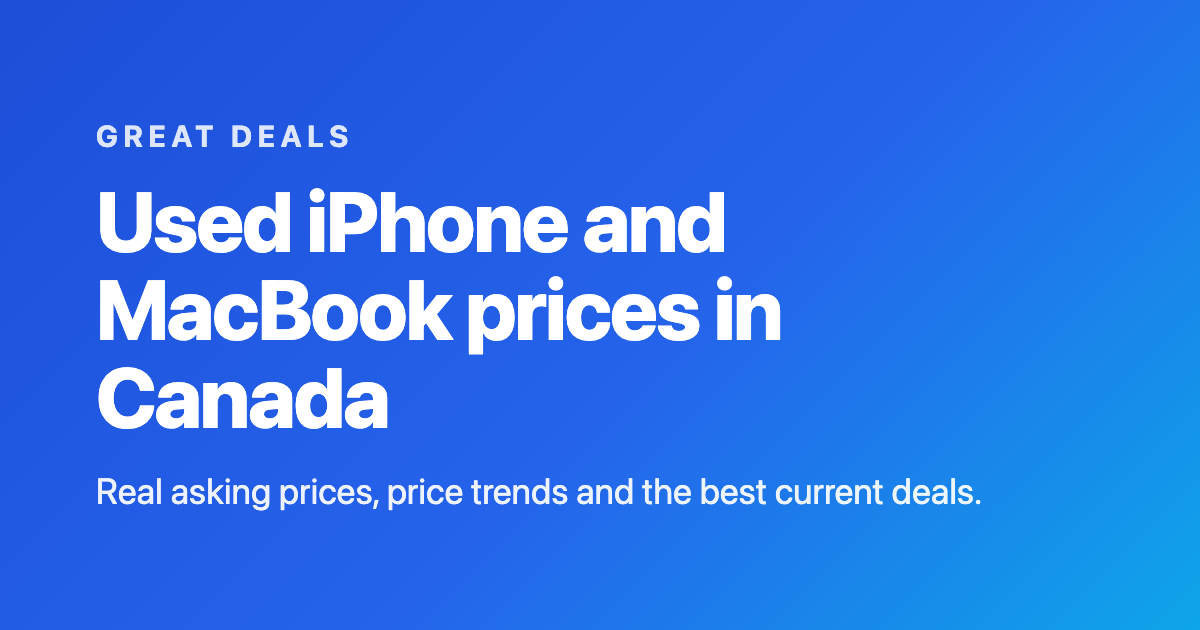
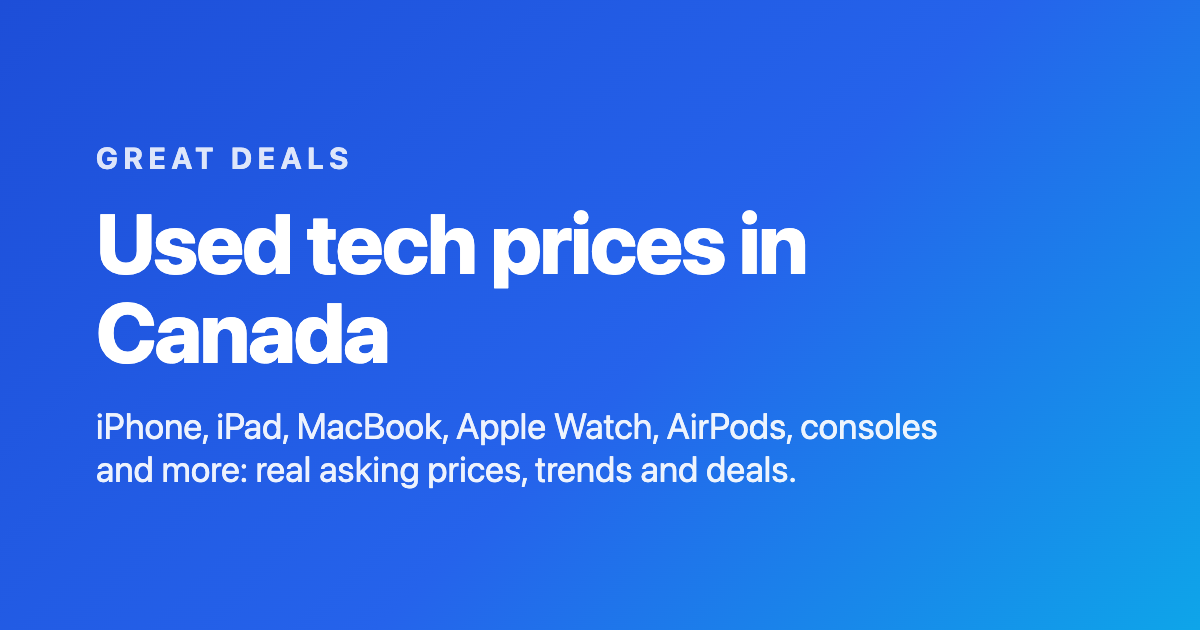
developing frontend module - 16

Changed region(s): [[0.0617, 0.3016, 0.8325, 0.8143], [0.0617, 0.181, 0.3083, 0.2714]]

diff --git a/web/src/lib/catalog.ts b/web/src/lib/catalog.ts
@@ -2,8 +2,19 @@
 // A module runs once and its variables stay alive for the whole build, so the first call fetches and the rest reuse it.
 import { getCategories, getCategoryProducts, getProduct, getSeries, getTopDeals, type CategoryProductCard } from "./api";
 
+// The API's category keys use underscores (apple_watch). URLs use hyphens (apple-watch), which search engines read as word
+// separators, so `category_key` here is the URL form. Only the calls to the API convert back (toApiKey).
+export const toUrlKey = (key: string) => key.replaceAll("_", "-");
+export const toApiKey = (urlKey: string) => urlKey.replaceAll("-", "_");
+
+// Names that read better in titles such as "Used Smart Ring Prices in Canada" than the database's own name.
+const CATEGORY_NAME_OVERRIDES: Record<string, string> = { smart_rings: "Smart Ring" };
+
+// Products with the most listings first (a fair way to choose which models to show when space is short).
+export const byPopularity = (a: CategoryProductCard, b: CategoryProductCard) => (b.listings_30d ?? 0) - (a.listings_30d ?? 0);
+
 export type CatalogCategory = {
-  category_key: string;
+  category_key: string; // URL form, see above
   category_name: string;
   products: CategoryProductCard[];
 };
@@ -19,7 +30,11 @@ async function load(): Promise<Catalog> {  const { data: categories, data_as_of 
   const loaded = await Promise.all(
     categories.map(async (category) => {
       const { products } = (await getCategoryProducts(category.category_key)).data;
-      return { category_key: category.category_key, category_name: category.category_name, products };
+      return {
+        category_key: toUrlKey(category.category_key),
+        category_name: CATEGORY_NAME_OVERRIDES[category.category_key] ?? category.category_name,
+        products,
+      };
     }),
   );
   return { categories: loaded, data_as_of };
@@ -39,7 +54,7 @@ const dealsCache = new Map<string, ReturnType<typeof getTopDeals>>();
 export function getCategoryDeals(categoryKey: string) {
   let deals = dealsCache.get(categoryKey);
   if (!deals) {
-    deals = getTopDeals(categoryKey);
+    deals = getTopDeals(toApiKey(categoryKey));
     dealsCache.set(categoryKey, deals);
   }
   return deals;

diff --git a/web/src/lib/text.ts b/web/src/lib/text.ts
@@ -2,6 +2,14 @@
 // needs is missing, so the page simply leaves that sentence out instead of printing "null".
 import type { Deal, ProductSummary, SeriesPoint } from "./api";
 import { formatShortDate, money } from "./format";
+import { SITE_NAME } from "./site";
+
+// The first title option that fits (the layout adds " | Site name"; Google shows about 60 characters, and check-site warns
+// above 70 in total). Long model names such as "PlayStation 5 Slim Digital Edition" fall back to a shorter wording.
+export function fitTitle(options: string[]): string {
+  const limit = 70 - ` | ${SITE_NAME}`.length;
+  return options.find((title) => title.length <= limit) ?? options[options.length - 1];
+}
 
 export const plural = (n: number, one: string, many: string) => `${n.toLocaleString("en-CA")} ${n === 1 ? one : many}`;
 

diff --git a/web/src/lib/site.ts b/web/src/lib/site.ts
@@ -26,6 +26,9 @@ export const HUBS = {
 } as const;
 export type HubKey = keyof typeof HUBS;
 
+// The owners of the brands whose products the site tracks, for the "not affiliated" statements.
+export const BRAND_OWNERS = "Facebook, Meta, Apple, Samsung, Sony, Microsoft, Nintendo or Oura";
+
 // Plain links in the top bar (no menu).
 export const NAV_LINKS = [{ label: "How it works", href: "/how-it-works/" }] as const;
 

diff --git a/api_front_end.md b/api_front_end.md
@@ -535,6 +535,7 @@ This validates networking, database access, caching, and deployment. Widening to
 | 2026-11-19 | F8 decisions: benefit headline with the site name small above it; categories as cards with their models fading in (one section, not a screen per category); one chart (the most-listed model's price trend); extras = trust numbers strip, FAQ and a "deal alerts coming soon" note (no email box) | Owner's answers. The owner chose to build F8 before deciding 13.1. |
 | 2026-11-20 | F9 and F10 decisions: Contact email is a placeholder until the owner has an address; Privacy describes today's reality (no analytics, cookies or ads) and will be updated when that changes; About presents an independent project without a name; the style guide exists only in `npm run dev`. Defaults chosen by the assistant: default share image made now, WebSite and Organization structured data only (no Product or Dataset markup), `astro check` and a link/SEO checker added | Owner's answers (all recommended). |
 | 2026-11-20 | F11 decisions: search is a magnifier icon in the header that opens a search panel (with the `/` shortcut); it finds models, categories and the two info pages only; the panel is Pagefind's ready-made one in the site's colours | Owner's answers (all recommended). |
+| 2026-11-20 | Catalog expansion decisions: the owner supplied the list of 69 product models and asked the assistant to assign categories (done by name; all fit existing categories); hyphenated category URLs and the "show only the most-listed models" limits were the assistant's choices to keep URLs search-friendly and pages short | No minimum-listings threshold for pages yet (see 13.5). |
 | 2026-10-26 | All API timestamps (`data_as_of`, later `listed_at`) are shown in Toronto time with the UTC offset, not UTC | Implemented once in `schemas.py` (`TorontoDatetime`); needs the `tzdata` package. Day bucketing in dbt is a separate, open decision (Section 11.5). |
 | 2026-10-23 | Listings endpoint stays parameterised (option A); the whole-list-per-product alternative (option B) and other caching ideas are parked for later | See 11.2 |
 | 2026-10-19 | ~~Add `median_price_30d` to the product summary~~ | Reversed 2026-10-20: no median in v1 |
@@ -636,6 +637,7 @@ Related to 11.1 and 5.1.1. Today a listing that disappears from Facebook keeps `
 | 2026-11-20 | Phase 5, step F9: trust pages | New `layouts/TextPage.astro` (breadcrumb, H1, intro, optional "Last updated", plain styling for headings, lists and definition lists) and pages `about`, `how-it-works` (where the data comes from, which listings count, the numbers explained, how deals are ranked, limits), `contact`, `privacy` (today's reality: no accounts, cookies, analytics or ads; AWS logs; will be updated if that changes), `terms`, `disclosure` and `404` (noindex, links to home, categories, top deals and every model). `CONTACT_EMAIL` placeholder in `site.ts`. | `npx tsc --noEmit` and `astro check` clean; build passes; screenshots of How it works and the 404 page looked right. Wording is a draft for the owner to review (13.5). |
 | 2026-11-20 | Phase 5, step F10: SEO plumbing | `@astrojs/sitemap` with a filter (sitemap leaves out all-listings, listings, styleguide and 404 pages; 28 of 36 pages are listed); `src/pages/robots.txt.ts` (allow all, sitemap address from `site`; noindex pages are not blocked here so Google can see their tag); `Base.astro` adds `og:locale`, `og:image` (+ size) and `twitter:card` with `public/og-default.png`; home page has WebSite and Organization JSON-LD (BreadcrumbList already on every page with a breadcrumb); `/styleguide/` is now a dynamic route that lists no pages in a production build (dev only); `@astrojs/check` added (`npm run check`; TypeScript pinned to 6.x because `@astrojs/check` does not accept 7); new `scripts/check-site.mjs` (`npm run check:site`, run after the build): broken internal links, sitemap entries that do not exist, noindex pages in the sitemap, indexable pages missing from it, and per page title, description, canonical and exactly one H1, with warnings for long titles and descriptions. | `astro check`: 0 errors, 0 warnings, 0 hints (60 files); `npm run build` passes (36 pages); `check:site` passes; deliberately broken link was caught. The checker found four hub descriptions that were too long (shortened). |
 | 2026-11-20 | Phase 5, step F11: search | `pagefind` added (dev dependency); `npm run build` is now `astro build && pagefind --site dist` and writes the index to `dist/pagefind/` (8 pages indexed: the 4 model overview pages, the 2 category pages, About and How it works). Only marked content is indexed (`data-pagefind-body` on the model summary text, the category intro and, through the new `searchable` option of `TextPage`, the two info pages; the H1 is the result title via `data-pagefind-meta="title"`), so Facebook listing titles and other pages never appear in results. `SiteHeader.astro`: a magnifier button (always visible, desktop and phone) and a native `<dialog>` search panel; opens from the button or the `/` key, closes with Escape, the X or a click outside; Pagefind's own script and stylesheet are loaded the first time it opens; the panel is themed with Pagefind CSS variables in `global.css`; in `npm run dev` (no index) it shows a note to build first. | `astro check` 0 errors; build passes; `check:site` passes; headless Chrome test: `/` opens the panel, "macbook" finds the two MacBook model pages and the category page, "how" finds How it works and About, Escape closes it. Found a stray word (`developin`) at the end of `web/tsconfig.json` in the working copy, which broke the build; removed it (the committed version was fine). |
+| 2026-11-20 | Catalog expansion to 69 products in 8 categories | `transform/seeds/product_catalog.csv` rewritten (iphone 17, macbook 9, ipad 10, apple_watch 12, airpods 7, gaming_console 11, samsung_galaxy 2, smart_rings 1; slugs generated from the names, the four old slugs unchanged; category chosen from the product name and the category configs); `transform/seeds/schema.yml` gets a `relationships` test from `category_key` to `dim_categories`. Frontend changes so everything scales: category URLs use hyphens (`/apple-watch/`, `/gaming-console/`, `/smart-rings/`) because the API keys have underscores (`toUrlKey` and `toApiKey` in `catalog.ts`; only API calls use the underscore form); `CATEGORY_NAME_OVERRIDES` (smart_rings shown as "Smart Ring"); `byPopularity` helper; the mega menu is wider (40 rem, models in two columns); `CategoryCard` and the home page list the 6 and 4 most-listed models and link to "All N models"; category grids use 3 columns on large screens; related products on a model page are the 4 most-listed others plus a link to all; the 404 page lists categories instead of models; the home hero, title and texts say "tech" instead of listing the category names when there are more than 3; "not affiliated" statements use `BRAND_OWNERS` (Facebook, Meta, Apple, Samsung, Sony, Microsoft, Nintendo, Oura) in the footer, home FAQ, About, Disclosure and Terms; `fitTitle()` shortens model titles that would exceed about 56 characters; share image regenerated ("Used tech prices in Canada"). | `astro check` clean. **Tested against a throwaway mock API with made-up data for all 69 products (about 1 in 7 without data):** the build made 280 pages in about 4 s, `check:site` passed (211 pages in the sitemap, no long titles), 69 pages indexed for search, screenshots of the mega menu, categories page, home categories section looked right. Not tested with real data because the serving tables still hold the 4 old products until the owner-run steps in 13.5. |
 | 2026-11-02 | API local env file | `api/.env.example` (`API_DATABASE_URL` for the read-only role, optional `API_DB_CONNECT_TIMEOUT`); owner copies to `api/.env` | n/a |
 
 Owner-run and pending (the owner does these later, not the assistant): roll out the timezone change (11.5, no code change needed; `PGOPTIONS` is already set in `stage3_transform.py`), build the serving tables, apply the Alembic migration and set the reader password, then run the six endpoints with `uvicorn` against Aurora (3c).
@@ -687,6 +689,8 @@ Code and contract are done (2026-11-09) but the live Lambda still has the old co
 Timezone rollout (11.5: scratch comparison, `fct_products_daily` full refresh, serving rebuild), `benchmark_listings` zero-diff comparison, Alembic migration and reader password, 4e `terraform apply` and SNS confirmation, running the endpoints against Aurora, CloudFront 5xx/`stale-if-error` checks, `Stage = $default` alarm dimension check.
 
 ### 13.5 Smaller notes
+- **Catalog expansion rollout (2026-11-20), owner-run:** `transform/seeds/product_catalog.csv` now lists 69 products in 8 categories, but the website only shows them after the serving tables are rebuilt. From `transform/`: `dbt seed --select product_catalog`, then `dbt run --select path:models/serving`, then `dbt test --select product_catalog dim_products` (or just let the pipeline run: `stage3_transform.py` runs `dbt seed` before `dbt run`). The API needs no redeploy; CloudFront may serve the old category lists for up to 6 hours (invalidate `/api/*` to see the change at once), then rebuild the site (`npm run build`). The product names in the seed must equal the classifier's `product_model` text exactly (spelling, brackets); a misspelt one just shows as "No data yet".
+- **Catalog expansion, things to know:** (1) the seed now also contains the generic buckets "MacBook Air" and "MacBook Pro" (catch-alls for listings where the chip or size was not recognised), which reverses the 2026-10-19 decision to exclude the generic MacBook Air bucket; (2) products with very few listings still get pages (a page needs at least one listing in 30 days; deals and the cheapest-25% price need at least 10), consider a minimum if thin pages appear; (3) `windows_laptop` has a config but no product in the seed, so it is not on the site; (4) the home, hub and category pages show only the 4 to 6 most-listed models per category and link to the rest.
 - **Before launch (F9 and F10, 2026-11-20):** (1) replace `CONTACT_EMAIL` in `web/src/lib/site.ts` (placeholder `contact@your-domain.example`, used on the Contact, About, Privacy and Terms pages); (2) have the Privacy, Terms and Disclosure drafts reviewed (plain-language drafts, not legal advice; Terms mention no governing law yet; Privacy says there are no cookies, analytics or ads and must be updated when that changes); (3) the How it works page says listings are collected "several times a day" and describes the deal score as an AI-assisted score: check both are accurate; (4) when the custom domain exists, change `site` in `astro.config.mjs` (canonicals, sitemap, robots.txt and the share image follow it); (5) the default share image `web/public/og-default.png` was made with headless Chrome and is replaced in F12; (6) serve `404.html` for missing pages (CloudFront, Phase 6).
 - **Dev server quirks (2026-11-19):** after installing React, `npm run dev` needed `optimizeDeps.include: ['react-dom/client']` (now in `astro.config.mjs`); if islands ever show "Error hydrating" in the browser console, stop the dev server and delete `web/node_modules/.vite`. A background dev server started on 2026-11-17 was stopped on 2026-11-19 to test config changes: restart with `npm run dev`.
 - **Listings table needs real-data check (2026-11-19):** it was built and tested against a mock; after 13.2 is deployed, open `/iphone/iphone-16-pro-max/listings/` in `npm run dev` and check the real rows, the 30-day window and the response size.
